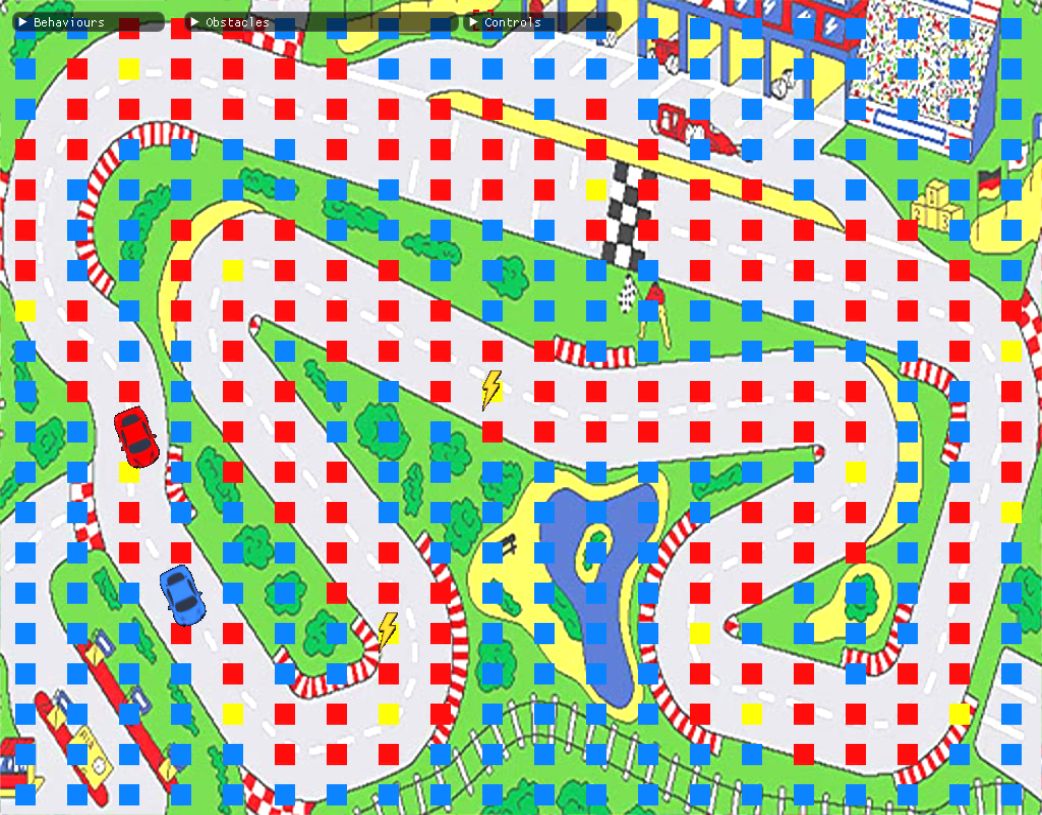
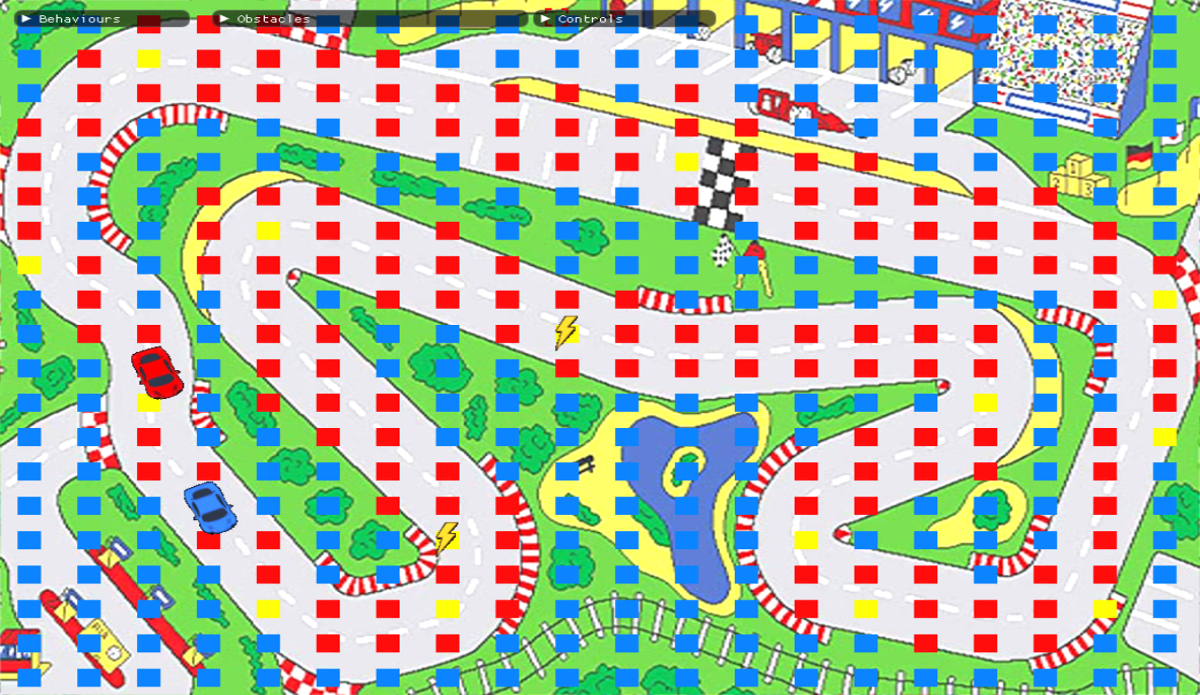
Updated carousel images on A.I. page.

Changed region(s): [[0.7063, 0.6647, 0.737, 0.695], [0.7063, 0.1209, 0.737, 0.1511]]

diff --git a/html/molecularity.html b/html/molecularity.html
@@ -83,16 +83,16 @@
         <div class="portfolio-description">
           <h2>Group Project: Molecularity</h2>
             <p>
-              Created as part of a group, Molecularity is a puzzle game, similar in nature to Portal, that was developed entirely with C++ and DirectX 11, for a module at university in the Spring of my second year. <strong><i>The goal of the game is to utilise the provided multi-tool and all of its in-built functions to manipulate and modify the physical properties of objects within each room.</i></strong> The player is given the ability to change the material, weight, size, bounciness, conductivity etc. of select objects. In doing this, they are tasked with activating a pressure plate in each level which serves as the win condition. The underlying engine utilises a variety of systems that were developed across the members of the group while adhering to standard programming practices.
+              Created as part of a group, Molecularity is a puzzle game, similar in nature to Portal, that was developed entirely with C++ and DirectX 11, for a module at university in the Spring of my second year. <strong><i>The goal of the game is to utilise the provided multi-tool and all of its in-built functions to manipulate and modify the physical properties of objects within each room.</i></strong><br><br>The player is given the ability to change the material, weight, size, bounciness, conductivity etc. of select objects. In doing this, they are tasked with activating a pressure plate in each level which serves as the win condition. The underlying engine utilises a variety of systems that were developed across the members of the group while adhering to standard programming practices.
             </p>
               <div class="iframe-container">
                 <div style="padding:54.27% 0 0 0;position:relative;"><iframe src="https://player.vimeo.com/video/558943103?h=0eefe5683a&amp;badge=0&amp;autopause=0&amp;player_id=0&amp;app_id=58479" frameborder="0" allow="autoplay; fullscreen; picture-in-picture" allowfullscreen style="position:absolute;top:0;left:0;width:100%;height:100%;" title="Molecularity"></iframe></div><script src="https://player.vimeo.com/api/player.js"></script>
               </div> <br/>
           <h2 style="font-size:20px">Roles & Responsibilities</h2>
             <p>
-              Within the group, I took on the role of <strong>lead programmer</strong> and was in charge of overseeing the development of all of the systems within the game engine, and ensuring that they adhered to standard programming practices and patterns. Further, I outlaid the design of the system architecture according to a series of deliverables that would be distributed to each group member, myself included, according to what best suited our interests and expertise. As my area of expertise lies with <strong>graphics programming</strong>, I opted to develop all of the graphics systems that are used throughout the game. For assigning tasks, Trello was used throughout the game's development. To see how these tasks were distributed, our personal Trello board can be found <a href="https://trello.com/b/V0FSI5Hy/molecularity-progress-board">here</a>.
+              Within the group, I took on the role of <strong>lead programmer</strong> and was in charge of overseeing the development of all of the systems within the game engine, and ensuring that they adhered to standard programming practices and patterns. Further, I outlaid the design of the system architecture according to a series of deliverables that would be distributed to each group member, myself included, according to what best suited our interests and expertise.<br><br>As my area of expertise lies with <strong>graphics programming</strong>, I opted to develop all of the graphics systems that are used throughout the game. For assigning tasks, Trello was used throughout the game's development. To see how these tasks were distributed, our personal Trello board can be found <a href="https://trello.com/b/V0FSI5Hy/molecularity-progress-board">here</a>.
               <br/><br/>
-              For managing the source code, GitHub's <strong>source control</strong> was the primary tool that we used. This enabled us to create local branches of the main codebase, without affecting the work of other group members. I initially developed a barebones system using Win32 for message processing which allowed everyone to start developing their systems after creating a local branch of the source code. GitHub proved extremely useful in the development of these new systems as it allowed each team member to view what everyone else was working on. This was especially true when it came to debugging. Once a team member was satisfied with their work, they would submit a pull request which I would always personally verify, to ensure that there were no conflicts with the existing code, before committing it to the master branch. All the pull requests made throughout the development of the game can be found <a href="https://github.com/kyle-robinson/molecularity/pulls?q=is%3Apr+is%3Aclosed">here</a>.
+              For managing the source code, GitHub's <strong>source control</strong> was the primary tool that we used. This enabled us to create local branches of the main codebase, without affecting the work of other group members. I initially developed a barebones system using Win32 for message processing which allowed everyone to start developing their systems after creating a local branch of the source code.<br><br>GitHub proved extremely useful in the development of these new systems as it allowed each team member to view what everyone else was working on. This was especially true when it came to debugging. Once a team member was satisfied with their work, they would submit a pull request which I would always personally verify, to ensure that there were no conflicts with the existing code, before committing it to the master branch. All the pull requests made throughout the development of the game can be found <a href="https://github.com/kyle-robinson/molecularity/pulls?q=is%3Apr+is%3Aclosed">here</a>.
             </p>
           <h2 style="font-size:20px">Idea Generation</h2>
             <p>
@@ -129,7 +129,7 @@ private:
 	std::list<Event> eventsList; // List of events to process
 };</pre>
 
-              The event system enabled us to better focus on the development of our systems without the worry of how they would integrate into the rest of the game engine. Instead, we were able to modify code and submit pull requests to the master branch with minimal conflicts due to the now decoupled nature of the codebase. Using this, I was able to better implement the lighting, fog, stencil, post-processing and multi-viewport systems. One final problem remained with the way that levels were being handled. To better manage switching between and loading levels, I opted to integrate a level state machine, according to the following <a href="https://thatgamesguy.co.uk/cpp-game-dev-6/">article</a> which can be seen below.
+              The event system enabled us to better focus on the development of our systems without the worry of how they would integrate into the rest of the game engine. Instead, we were able to modify code and submit pull requests to the master branch with minimal conflicts due to the now decoupled nature of the codebase. Using this, I was able to better implement the lighting, fog, stencil, post-processing and multi-viewport systems.<br><br>One final problem remained with the way that levels were being handled. To better manage switching between and loading levels, I opted to integrate a level state machine, according to the following <a href="https://thatgamesguy.co.uk/cpp-game-dev-6/">article</a> which can be seen below.
 
               <br><br>
               <pre class="prettyprint">

diff --git a/html/ai-behaviours.html b/html/ai-behaviours.html
@@ -85,11 +85,11 @@
         <div class="portfolio-description">
           <h2>A.I. Behaviours</h2>
             <p>
-              Created as part of my <strong>Artificial Intelligence in Games</strong> module, <strong><i>the task was to demonstrate various steering behaviours; seek, flee, arrive, pursuit, obstacle avoidance and wander</i></strong>. I was also required to demonstrate a path-finding behaviour, where the vehicle would construct a path from its current position to the next node along the racetrack using the <strong>A* algorithm</strong> without going off-road. Examples of decision-making were also required, like where the vehicle should avoid obstacles, collect pickups, or slow down when turning a corner so that it will be able to complete the manoeuvre. A second dodge car was also required to demonstrate some of the aforementioned behaviours such as pursuit, where it would follow the original car around the racetrack.
+              Created as part of my <strong>Artificial Intelligence in Games</strong> module, <strong><i>the task was to demonstrate various steering behaviours; seek, flee, arrive, pursuit, obstacle avoidance and wander</i></strong>. I was also required to demonstrate a path-finding behaviour, where the vehicle would construct a path from its current position to the next node along the racetrack using the <strong>A* algorithm</strong> without going off-road.<br><br>Examples of decision-making were also required, like where the vehicle should avoid obstacles, collect pickups, or slow down when turning a corner so that it will be able to complete the manoeuvre. A second dodge car was also required to demonstrate some of the aforementioned behaviours such as pursuit, where it would follow the original car around the racetrack.
             </p>
           <h2 style="font-size:20px">What Did I Learn?</h2>
             <p>
-              For this assignment, I learned a lot about the various steering behaviours and their implementations. I used a <strong>physics based system</strong> to demonstrate more gradual movements around the racetrack. As <strong><i>any given behaviour uses the physics system to apply a force in a given direction</i></strong>, this meant that most of the behaviours could be used simultaneously, with forces being applied from different directions resulting in a final direction which the car would then face. Some of the behaviours would need priority over others, however, as they would cause unnatural movements. Giving less priority to obstacle avoidance, for example, would mean that the car would make an attempt to avoid obstacles, but would likely just drive through them.
+              For this assignment, I learned a lot about the various steering behaviours and their implementations. I used a <strong>physics based system</strong> to demonstrate more gradual movements around the racetrack. As <strong><i>any given behaviour uses the physics system to apply a force in a given direction</i></strong>, this meant that most of the behaviours could be used simultaneously, with forces being applied from different directions resulting in a final direction which the car would then face. Some of the behaviours would need priority over others, however, as they would cause unnatural movements. Giving less priority to obstacle avoidance, for example, would mean that the car would make an attempt to avoid obstacles, but would just drive through them.
               <br><br>
               Using both the physics and AI systems, I was then able to implement all of the required behaviours regarding current implementations like in <strong><i>Mat Buckland's "Programming Game AI by Example,"</i></strong> and <strong><i>Brian Schwab's "AI Game Engine Programming."</i></strong> Below is a list of all of the steering behaviours that I was able to implement using these systems that I had created.
 
@@ -106,11 +106,11 @@
                 <li class="split"><a href="../assets/video/Wander.mp4" target="_blank"><i class="fas fa-external-link-square-alt"></i></a> Wander</li>
               </ul>
 
-              To manage the change between behaviour states, I utilised a finite state machine - also demonstrated in Mat Buckland's "Programming Game AI by Example" - along with a toggle system that enables the user to toggle behaviours on and off at will. This enabled the use of <strong>ImGui windows</strong>, enabling the user to toggle between select behaviours, or enable multiple at once. Among these, the user can also select the path following behaviour which will cause the dodge car to move between each of the nodes placed throughout the track. From implementing this behaviour, I learned about the A* algorithm, and how to it could be used alongside the physics system to create gradual movement between each of the nodes in the list.
+              To manage the change between behaviour states, I utilised a finite state machine - also demonstrated in Mat Buckland's "Programming Game AI by Example" - along with a toggle system that enables the user to toggle behaviours on and off at will. This enabled the use of <strong>ImGui windows</strong>, enabling the user to toggle between select behaviours, or enable multiple at once. Among these, the user can also select the path following behaviour which will cause the dodge car to move between each of the nodes placed throughout the track.<br><br>From implementing this behaviour, I learned about the A* algorithm, and how to it could be used alongside the physics system to create gradual movement between each of the nodes in the list.
             </p>
           <h2 style="font-size:20px">Future Additions</h2>
             <p>
-              Now that I have completed this assignment, I have learned a lot about implementing autonomous behaviours in a practical environment, where the result would have a noticeable effect on the physics of the vehicle. As for future additions, I would implement a range of different racetracks to further demonstrate the flexibility of the AI system that was implemented. I would also allow the user to place their waypoints around the track. The dodge car would then use the path following behaviour to sequentially move between each of the nodes while avoiding obstacles, which could also be placed by the user, instead of just being randomly generated.
+              Now that I have completed this assignment, I have learned a lot about implementing autonomous behaviours in a practical environment, where the result would have a noticeable effect on the physics of the vehicle. As for future additions, I would implement a range of different racetracks to further demonstrate the flexibility of the AI system that was implemented.<br><br>I would also allow the user to place their waypoints around the track. The dodge car would then use the path following behaviour to sequentially move between each of the nodes while avoiding obstacles, which could also be placed by the user, instead of just being randomly generated.
             </p>
 
             <br/><h2 style="font-size:20px">Feel free to drop a comment below.</h2>
